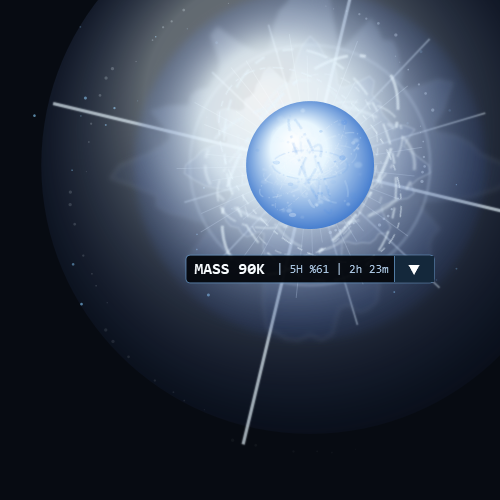
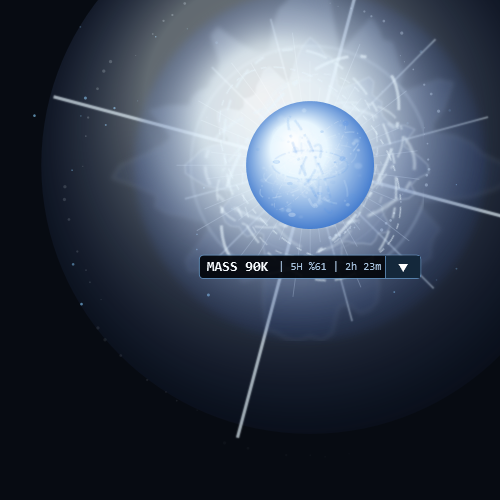
feat: add token details and star scaling

diff --git a/README.md b/README.md
@@ -1,23 +1,21 @@
 # Claude Code Token Star
 
-Claude Code'un dolan context penceresini canlı bir yıldıza dönüştürür. Token
-kullanımı arttıkça yıldız büyür ve altı kozmik aşamadan geçer.
+Turn Claude Code's context usage into a live star. As the context fills, the
+star grows and changes through six cosmic stages.
 
-- Windows: PyCharm, IntelliJ, Android Studio, WebStorm, Rider, CLion, GoLand,
-  PhpStorm, RubyMine, DataGrip, VS Code, Cursor, Visual Studio ve Eclipse
-  üzerinde şeffaf overlay.
-- Linux/macOS: Ghostty içinde GLSL shader.
-- Yalnızca kurduğunuz projede görünür.
-- Yeni Claude oturumu açmaz; açık olan oturuma bağlanır.
+- Windows: transparent overlay for JetBrains IDEs, VS Code, Cursor, Visual
+  Studio, and Eclipse.
+- Linux/macOS: GLSL shader for Ghostty.
+- Runs only in the project where you install it.
+- Connects to your current Claude Code session. It does not open a new one.
 
-## Nasıl çalışıyor?
+## How it works
 
-Claude Code'un status-line verisi context yüzdesini, token dökümünü ve kullanım
-limitlerini küçük bir köprüye gönderir. Windows'ta WPF overlay, Linux/macOS'ta
-GLSL shader bu veriyi yıldız animasyonuna çevirir. Ek API çağrısı veya token
-harcaması yapmaz.
+Claude Code sends its status-line data to a small local bridge. The bridge
+updates the Windows overlay or Ghostty shader. It makes no extra API calls and
+uses no extra tokens.
 
-## Yıldız aşamaları
+## Star stages
 
 | | |
 | --- | --- |
@@ -25,102 +23,97 @@ harcaması yapmaz.
 | **Blue Giant · 35–55%**<br><img src="assets/overlay-blue-giant.png" width="420" alt="Blue Giant"> | **Hypergiant · 55–75%**<br><img src="assets/overlay-hypergiant.png" width="420" alt="Hypergiant"> |
 | **Neutron Star · 75–90%**<br><img src="assets/overlay-neutron-star.png" width="420" alt="Neutron Star"> | **Quasar · 90–100%**<br><img src="assets/overlay-quasar.png" width="420" alt="Quasar"> |
 
-## Windows kurulumu
+## Install on Windows
 
-Gerekenler: [Claude Code](https://docs.anthropic.com/en/docs/claude-code), Git
-ve Windows PowerShell. Python gerekmez.
+You need Claude Code, Git, and Windows PowerShell. Python is not required.
 
-1. PyCharm veya kullandığınız IDE'de projenizi açın.
-2. IDE'nin terminalini açın.
-3. Aşağıdaki iki komutu sırayla kopyalayıp yapıştırın:
+Open your project in your IDE, open its terminal, then paste these commands:
 
 ```powershell
 git clone https://github.com/0Alduin0/Claude-Code-Token-Star.git .claude-token-star
 powershell.exe -NoProfile -ExecutionPolicy Bypass -File .\.claude-token-star\install.ps1
 ```
 
-Hepsi bu. Installer ikinci bir Claude açmaz. Açık Claude oturumu ayarları kısa
-bir gecikmeden sonra yeniden yükler; overlay aynı oturumun sonraki status
-yenilemesinde çalışmaya başlar. İlk kullanımda Claude komuta güvenmek için onay
-isteyebilir.
+The star appears after Claude Code's next status refresh.
 
-Güncellemek için aynı proje terminalinde:
+To update:
 
 ```powershell
 git -C .claude-token-star pull
 powershell.exe -NoProfile -ExecutionPolicy Bypass -File .\.claude-token-star\install.ps1
 ```
 
-## Kullanım
+## Use it
 
-- Taşımak için yıldızın üzerine basıp sürükleyin.
-- `MASS 85K` yaklaşık 85 bin context token anlamına gelir.
-- `5H %61 | 2h 23m`, beş saatlik limitin %61'inin kullanıldığını ve yenilenme
-  süresini gösterir.
-- Sağdaki oka basınca `/context` benzeri token ve limit dökümü açılır.
-- Başka bir projeye geçtiğinizde bu projenin yıldızı otomatik olarak gizlenir.
+- Drag the star itself to move it, including close to IDE corners and edges.
+- `MASS 85K` means about 85,000 context tokens.
+- `5H %61 | 2h 23m` shows five-hour usage and time until reset.
+- Click the arrow for total input, system prompt, system tools, memory files,
+  skills, cache read, remaining context, five-hour limit, reset time, and
+  seven-day limit.
+- Use `1x`, `2x`, or `3x` at the bottom of the menu to resize the star. `1x` is
+  one-third of the original size; `3x` is the original size.
+- The star hides when you switch to another project.
 
-<img src="assets/overlay-token-details.png" width="500" alt="Açık token ve kullanım limiti menüsü">
+Claude Code's current [status-line data](https://code.claude.com/docs/en/statusline)
+does not expose separate system prompt, system tools, memory files, or skills
+token counts. Those rows show `--` unless Claude adds them to the payload.
 
-Aşamaları gerçek token harcamadan denemek için:
+<img src="assets/overlay-token-details.png" width="500" alt="Token details and star size menu">
+
+Test every stage without spending tokens:
 
 ```powershell
 .\.claude-token-star\token-test.ps1 sweep
 ```
 
-## Tarayıcıda önizleme
-
-Windows'ta aşağıdaki tek komut yerel sunucuyu başlatır ve önizlemeyi tarayıcıda
-açar. Bitirdiğinizde terminalde Enter'a basmanız sunucuyu kapatır.
+## Browser preview
 
 ```powershell
 .\.claude-token-star\preview.ps1
 ```
 
-Elle açılacak adres: <http://127.0.0.1:4173/preview.html>
+This opens <http://127.0.0.1:4173/preview.html>. Press Enter in the terminal to
+stop it.
 
-## Windows'tan tamamen kaldırma
+## Remove from Windows
 
-Projenizin terminalinde aşağıdaki iki komutu sırayla çalıştırın:
+Run both commands in the project terminal:
 
 ```powershell
 powershell.exe -NoProfile -ExecutionPolicy Bypass -File .\.claude-token-star\uninstall.ps1
 Remove-Item -LiteralPath .\.claude-token-star -Recurse -Force
 ```
 
-İlk komut overlay ve yerel önizlemeyi durdurur; Claude status line ve hook
-ayarlarını geri alır; Windows Terminal profilini, token durumunu, kayıtlı konumu
-ve runtime dosyalarını siler. İkinci komut indirdiğiniz `.claude-token-star`
-klasörünü de siler.
+This removes the overlay, settings, runtime files, saved state, and downloaded
+folder.
 
-## Linux/macOS kurulumu
+## Linux/macOS
 
-Ghostty 1.3+, Claude Code ve Python 3.10+ gerekir:
+You need Ghostty 1.3+, Claude Code, Git, and Python 3.10+.
 
 ```sh
 git clone https://github.com/0Alduin0/Claude-Code-Token-Star.git .claude-token-star
 sh ./.claude-token-star/install.sh
 ```
 
-Kaldırma ve indirilen klasörü temizleme:
+Remove everything:
 
 ```sh
 sh ./.claude-token-star/uninstall.sh
 rm -rf -- ./.claude-token-star
 ```
 
-## Sorun olursa
+## Troubleshooting
 
 ```powershell
 .\.claude-token-star\token-test.ps1 doctor
 ```
 
-Overlay yalnızca kurulumda seçilen proje desteklenen IDE'nin ön plan
-penceresindeyken görünür. Değerler ilk Claude yanıtından önce boşsa `--`
-gösterilmesi normaldir.
+The overlay appears only when the installed project is open in a supported IDE.
+It is normal to see `--` before Claude Code sends the first status update.
 
-## Lisans
+## License
 
-MIT. Yıldız evrimi için [NASA Star Lifecycle](https://science.nasa.gov/mission/webb/star-lifecycle/),
-quasar görsel dili için [NASA Active Galactic Nuclei](https://science.nasa.gov/mission/webb/science-overview/science-explainers/what-are-active-galactic-nuclei/)
-kaynak alınmıştır.
+MIT. Visual references: [NASA Star Lifecycle](https://science.nasa.gov/mission/webb/star-lifecycle/)
+and [NASA Active Galactic Nuclei](https://science.nasa.gov/mission/webb/science-overview/science-explainers/what-are-active-galactic-nuclei/).
